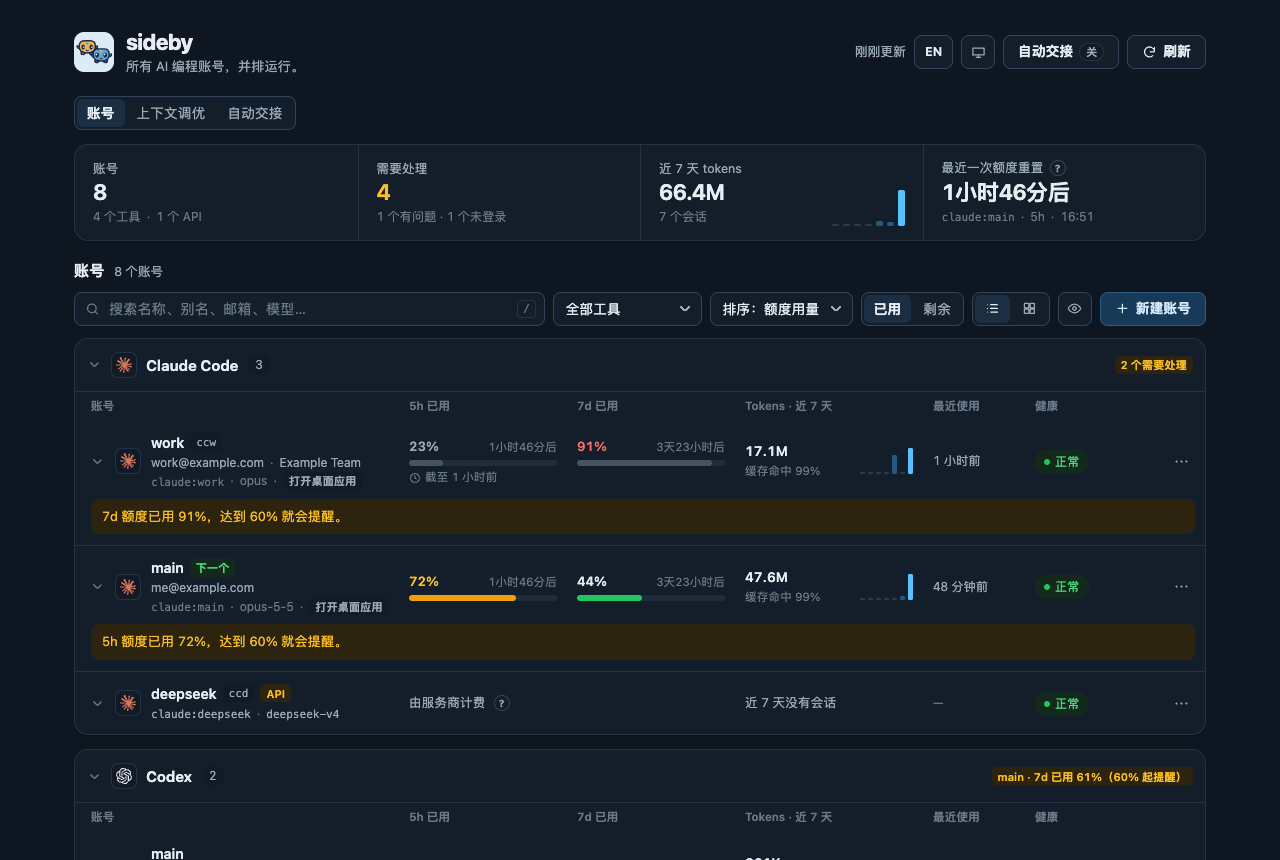
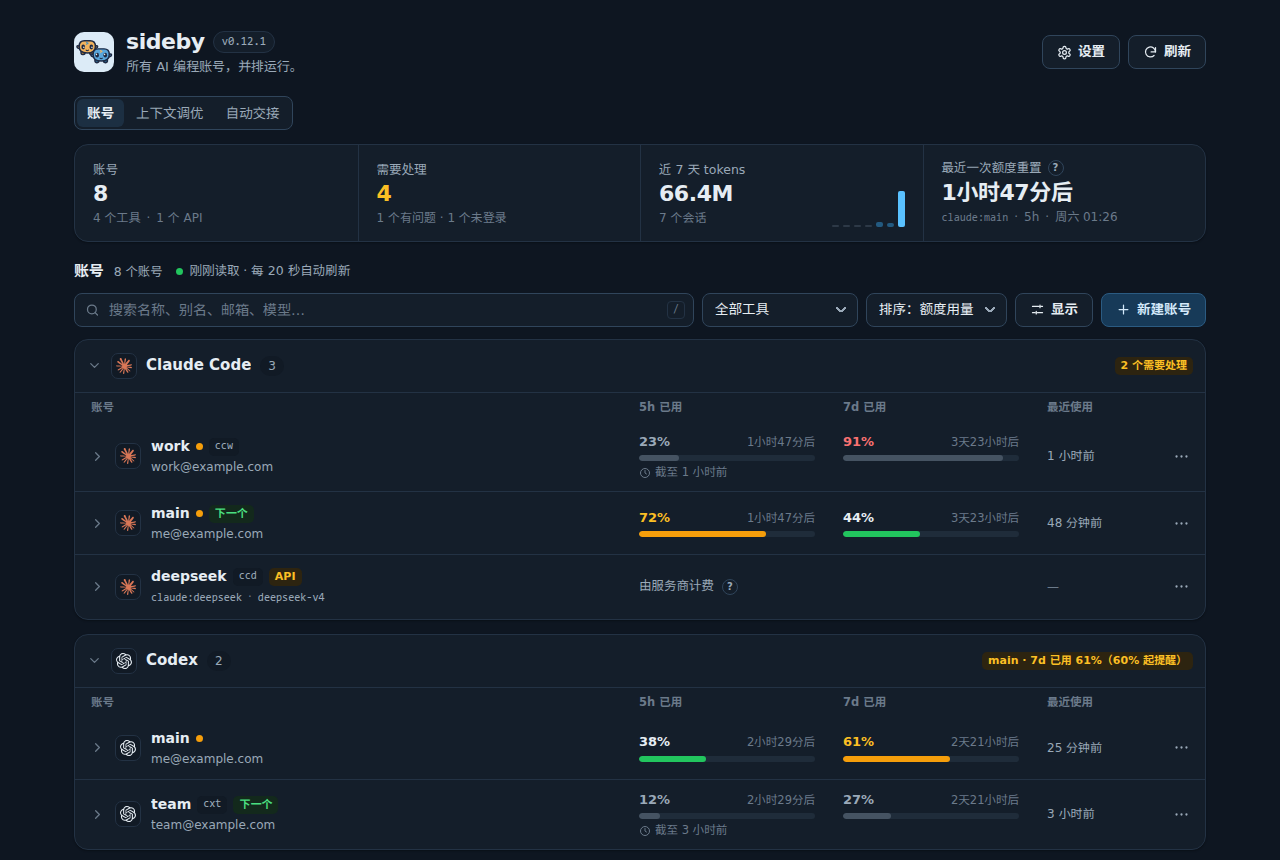
📝 docs(readme): retake the Panel screenshots and demo GIF with the Settings header
Also keeps the release check working: readme-assets.ts skipped no commit it could not find (an amended
54791c2 made preversion fail) and now warns instead, with banner and intro video checked at 88856b8, where
they were reviewed; record-demo.ts waited for "cache hits", which moved behind a click in 6ea716b.

diff --git a/scripts/readme-assets.ts b/scripts/readme-assets.ts
@@ -47,8 +47,25 @@ if (markArg !== -1) {
   process.exit(0)
 }
 
+const warnings: string[] = []
+/** True when `c` is a commit of this branch's history (a `checked` from an amended or unpushed commit is not). */
+function inHistory(c: string): boolean {
+  try {
+    execFileSync('git', ['merge-base', '--is-ancestor', c, 'HEAD'], { cwd: root, stdio: 'ignore' })
+    return true
+  } catch {
+    return false
+  }
+}
+
 /** The later of the last commit that changed `files` and `checked`: the point a medium was last known good. */
-function baseline(files: string[] = [], checked?: string): string | undefined {
+function baseline(files: string[] = [], checked?: string, id = 'copy'): string | undefined {
+  if (checked && !inHistory(checked)) {
+    warnings.push(
+      `${id}: checked commit ${checked} is not in this branch's history; check it, then --mark ${id}`,
+    )
+    checked = undefined
+  }
   const candidates = [
     files.length ? git('log', '-1', '--format=%h', '--', ...files) : '',
     checked ?? '',
@@ -63,9 +80,9 @@ const commits = (base: string, ...args: string[]) =>
 
 const report: string[] = []
 for (const asset of manifest.assets) {
-  const base = baseline(asset.files, asset.checked)
+  const base = baseline(asset.files, asset.checked, asset.id)
   if (!base) {
-    report.push(`${asset.id} (${asset.kind}): never committed; retake with: ${asset.retake}`)
+    report.push(`${asset.id} (${asset.kind}): never checked; retake with: ${asset.retake}`)
     continue
   }
   const hits = commits(base, '--', ...asset.watch)
@@ -88,6 +105,7 @@ if (feats.length) {
   )
 }
 
+for (const w of warnings) console.log(`readme-assets: ${w}`)
 if (!report.length) {
   console.log('readme-assets: README media and copy are up to date')
 } else {

diff --git a/scripts/record-demo.ts b/scripts/record-demo.ts
@@ -151,7 +151,8 @@ await page('Emulation.setDeviceMetricsOverride', {
 })
 await page('Page.navigate', { url: panelUrl })
 await until(
-  `document.body?.innerText.includes('Claude Code') && document.body.innerText.includes('cache hits')`,
+  // Token usage moved behind a click (6ea716b); the 7-day quota of claude:work is what the scene zooms into.
+  `/\\d+%/.test(document.querySelector('.row[data-ref="claude:work"] .quota')?.innerText ?? '')`,
   'the Panel to load quota',
 )
 await new Promise((r) => setTimeout(r, 800))
